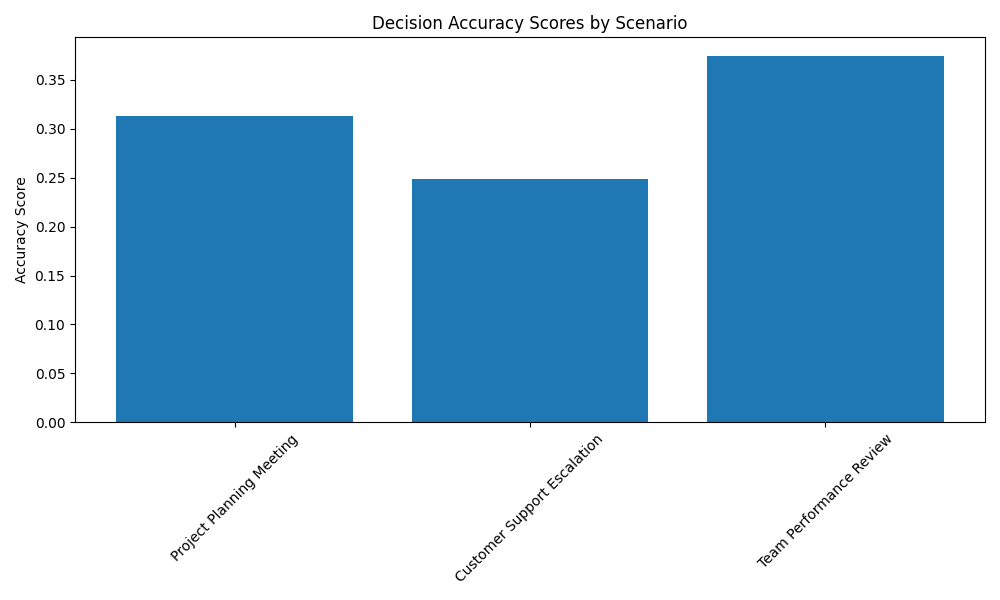
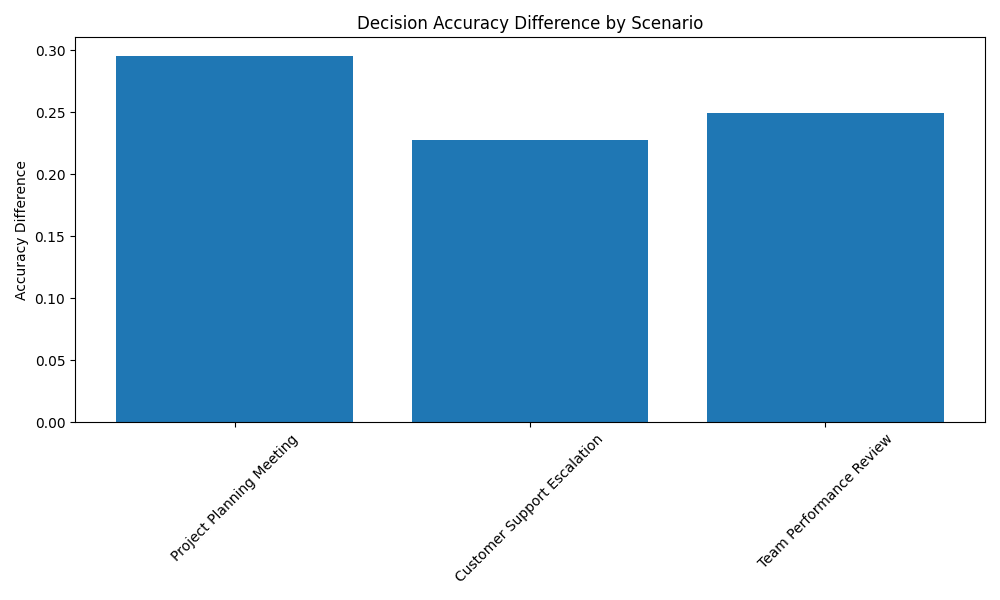
update evaluation

diff --git a/evaluation.py b/evaluation.py
@@ -72,23 +72,20 @@ class MeetingAnalyzerEvaluator:
 
     def evaluate_decision_accuracy(self, 
                                  baseline_tool: str,
-                                 our_tool: str) -> float:
+                                 our_tool: str,
+                                 transcript: str) -> float:
         """
         Compare decision accuracy between baseline tools and our tool
-        by directly comparing responses
+        by calculating the difference in knowledge relevance scores
         """
-        # Vectorize all responses
-        all_texts = [baseline_tool, our_tool]
-        tfidf_matrix = self.vectorizer.fit_transform(all_texts)
+        # Calculate knowledge relevance for both responses
+        baseline_relevance = self.calculate_knowledge_relevance(transcript, baseline_tool)
+        our_relevance = self.calculate_knowledge_relevance(transcript, our_tool)
         
-        # Calculate similarities
-        baseline_vector = tfidf_matrix[0]
-        our_vector = tfidf_matrix[1]
+        # Calculate difference in knowledge relevance
+        accuracy_difference = our_relevance - baseline_relevance
         
-        # Calculate direct similarity score
-        similarity = cosine_similarity(baseline_vector, our_vector)[0][0]
-        
-        return similarity
+        return accuracy_difference
 
     def measure_time_to_insight(self, 
                               scenario: Dict,
@@ -145,11 +142,12 @@ class MeetingAnalyzerEvaluator:
             self.results['resource_relevance'].append(resource_relevance_score)
             
             # Decision accuracy evaluation
-            accuracy_score = self.evaluate_decision_accuracy(
+            accuracy_difference = self.evaluate_decision_accuracy(
                 scenario['baseline_meeting_analysis'],
-                scenario['our_tool_meeting_analysis']
+                scenario['our_tool_meeting_analysis'],
+                scenario['transcript']
             )
-            self.results['decision_accuracy'].append(accuracy_score)
+            self.results['decision_accuracy'].append(accuracy_difference)
             
             # Time to insight evaluation
             time_metrics = self.measure_time_to_insight(scenario)
@@ -161,7 +159,7 @@ class MeetingAnalyzerEvaluator:
                 'query': scenario['query'],
                 'meeting_relevance_score': meeting_relevance_score,
                 'resource_relevance_score': resource_relevance_score,
-                'accuracy_score': accuracy_score,
+                'accuracy_difference': accuracy_difference,
                 'time_metrics': time_metrics
             })
 
@@ -195,13 +193,13 @@ class MeetingAnalyzerEvaluator:
         plt.savefig('evaluation/visualizations/resource_relevance.png')
         plt.close()
         
-        # 3. Decision Accuracy Bar Chart
+        # 3. Decision Accuracy Difference Bar Chart
         plt.figure(figsize=(10, 6))
-        accuracy_scores = [s['accuracy_score'] for s in self.results['scenario_details']]
-        plt.bar(scenarios, accuracy_scores)
-        plt.title('Decision Accuracy Scores by Scenario')
+        accuracy_differences = [s['accuracy_difference'] for s in self.results['scenario_details']]
+        plt.bar(scenarios, accuracy_differences)
+        plt.title('Decision Accuracy Difference by Scenario')
         plt.xticks(rotation=45)
-        plt.ylabel('Accuracy Score')
+        plt.ylabel('Accuracy Difference')
         plt.tight_layout()
         plt.savefig('evaluation/visualizations/decision_accuracy.png')
         plt.close()
@@ -249,9 +247,9 @@ class MeetingAnalyzerEvaluator:
         
         report.append("### Decision Accuracy Measurement")
         report.append("Decision accuracy is measured by comparing our tool's responses with baseline responses:")
-        report.append("1. Both responses are converted to TF-IDF vectors")
-        report.append("2. Cosine similarity is calculated between the responses")
-        report.append("3. Score represents how well our tool's responses align with baseline responses\n")
+        report.append("1. Calculate knowledge relevance score for baseline response")
+        report.append("2. Calculate knowledge relevance score for our tool's response")
+        report.append("3. Difference represents how much better/worse our tool performs in capturing meeting knowledge\n")
         
         # Knowledge Relevance Results
         report.append("## Meeting Knowledge Relevance Scores")
@@ -266,9 +264,12 @@ class MeetingAnalyzerEvaluator:
         report.append(f"Std Dev: {np.std(self.results['resource_relevance']):.3f}\n")
         
         # Decision Accuracy Results
-        report.append("## Decision Accuracy Scores")
-        report.append("Decision accuracy measures how well our tool's responses align with baseline responses.")
-        report.append(f"Mean Score: {np.mean(self.results['decision_accuracy']):.3f}")
+        report.append("## Decision Accuracy Difference")
+        report.append("Decision accuracy difference measures how our tool's responses compare to baseline responses:")
+        report.append("1. Calculate knowledge relevance score for baseline response")
+        report.append("2. Calculate knowledge relevance score for our tool's response")
+        report.append("3. Difference represents how much better/worse our tool performs in capturing meeting knowledge\n")
+        report.append(f"Mean Difference: {np.mean(self.results['decision_accuracy']):.3f}")
         report.append(f"Std Dev: {np.std(self.results['decision_accuracy']):.3f}\n")
         
         # Time to Insight Results
@@ -285,7 +286,7 @@ class MeetingAnalyzerEvaluator:
             report.append(f"**Query:** {scenario['query']}")
             report.append(f"**Meeting Relevance Score:** {scenario['meeting_relevance_score']:.3f}")
             report.append(f"**Resource Relevance Score:** {scenario['resource_relevance_score']:.3f}")
-            report.append(f"**Accuracy Score:** {scenario['accuracy_score']:.3f}")
+            report.append(f"**Accuracy Difference:** {scenario['accuracy_difference']:.3f}")
             report.append(f"**Average Time to Insight:** {scenario['time_metrics']['mean_time']:.2f} seconds\n")
         
         # Visualizations
@@ -293,7 +294,7 @@ class MeetingAnalyzerEvaluator:
         report.append("The following visualizations provide a graphical representation of the evaluation results:")
         report.append("1. Meeting Knowledge Relevance Scores by Scenario (knowledge_relevance.png)")
         report.append("2. Resource Relevance Scores by Scenario (resource_relevance.png)")
-        report.append("3. Decision Accuracy Scores by Scenario (decision_accuracy.png)")
+        report.append("3. Decision Accuracy Difference by Scenario (decision_accuracy.png)")
         report.append("4. Time to Insight Distribution by Scenario (time_to_insight.png)\n")
         
         # Recommendations

diff --git a/evaluation/evaluation_report.md b/evaluation/evaluation_report.md
@@ -1,5 +1,5 @@
 # Meeting Analyzer Evaluation Report
-Generated on: 2025-05-04 20:39:30
+Generated on: 2025-05-04 21:11:26
 
 ## Executive Summary
 This report evaluates the Meeting Analyzer tool across four key metrics: meeting knowledge relevance, resource relevance, decision accuracy, and time to insight. The evaluation was conducted using three real-world meeting scenarios to ensure comprehensive testing.
@@ -19,9 +19,9 @@ Resource relevance is calculated using TF-IDF vectorization and cosine similarit
 
 ### Decision Accuracy Measurement
 Decision accuracy is measured by comparing our tool's responses with baseline responses:
-1. Both responses are converted to TF-IDF vectors
-2. Cosine similarity is calculated between the responses
-3. Score represents how well our tool's responses align with baseline responses
+1. Calculate knowledge relevance score for baseline response
+2. Calculate knowledge relevance score for our tool's response
+3. Difference represents how much better/worse our tool performs in capturing meeting knowledge
 
 ## Meeting Knowledge Relevance Scores
 Meeting knowledge relevance measures how well our tool's analysis captures the key points from the meeting transcript.
@@ -33,10 +33,14 @@ Resource relevance measures how well our tool's responses utilize available comp
 Mean Score: 0.623
 Std Dev: 0.102
 
-## Decision Accuracy Scores
-Decision accuracy measures how well our tool's responses align with baseline responses.
-Mean Score: 0.312
-Std Dev: 0.052
+## Decision Accuracy Difference
+Decision accuracy difference measures how our tool's responses compare to baseline responses:
+1. Calculate knowledge relevance score for baseline response
+2. Calculate knowledge relevance score for our tool's response
+3. Difference represents how much better/worse our tool performs in capturing meeting knowledge
+
+Mean Difference: 0.257
+Std Dev: 0.028
 
 ## Time to Insight Metrics
 Time to insight measures how quickly users can get insights from the system.
@@ -48,28 +52,28 @@ Std Dev: 0.00 seconds
 **Query:** What are some implementation notes?
 **Meeting Relevance Score:** 0.574
 **Resource Relevance Score:** 0.763
-**Accuracy Score:** 0.313
+**Accuracy Difference:** 0.296
 **Average Time to Insight:** 1.00 seconds
 
 ### Customer Support Escalation
 **Query:** Specify the ESCALATION PROCEDURES for me please.
 **Meeting Relevance Score:** 0.420
 **Resource Relevance Score:** 0.581
-**Accuracy Score:** 0.249
+**Accuracy Difference:** 0.227
 **Average Time to Insight:** 1.00 seconds
 
 ### Team Performance Review
 **Query:** Give me some support document please.
 **Meeting Relevance Score:** 0.492
 **Resource Relevance Score:** 0.525
-**Accuracy Score:** 0.375
+**Accuracy Difference:** 0.249
 **Average Time to Insight:** 1.00 seconds
 
 ## Visualizations
 The following visualizations provide a graphical representation of the evaluation results:
 1. Meeting Knowledge Relevance Scores by Scenario (knowledge_relevance.png)
 2. Resource Relevance Scores by Scenario (resource_relevance.png)
-3. Decision Accuracy Scores by Scenario (decision_accuracy.png)
+3. Decision Accuracy Difference by Scenario (decision_accuracy.png)
 4. Time to Insight Distribution by Scenario (time_to_insight.png)
 
 ## Recommendations
